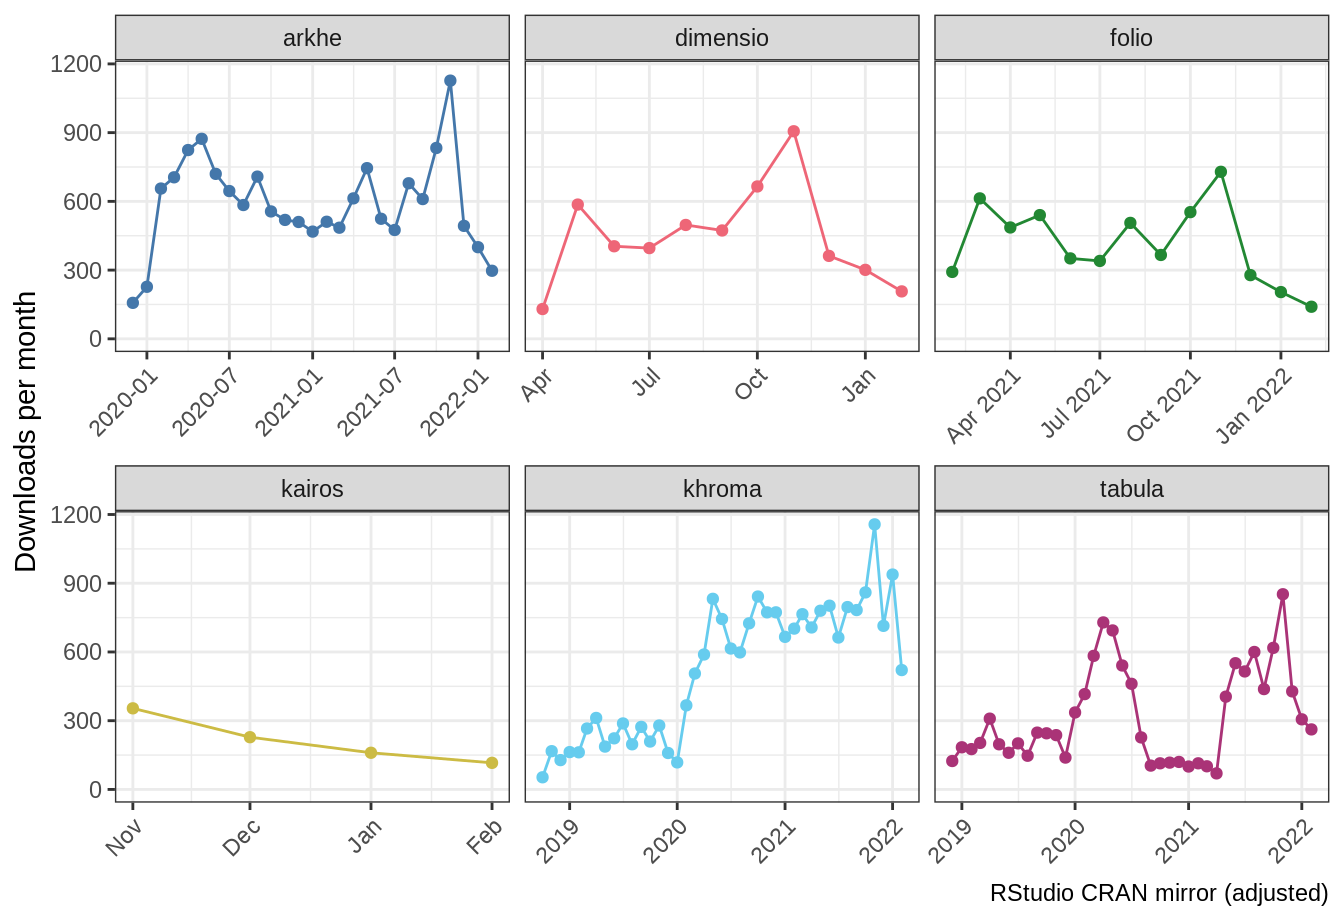
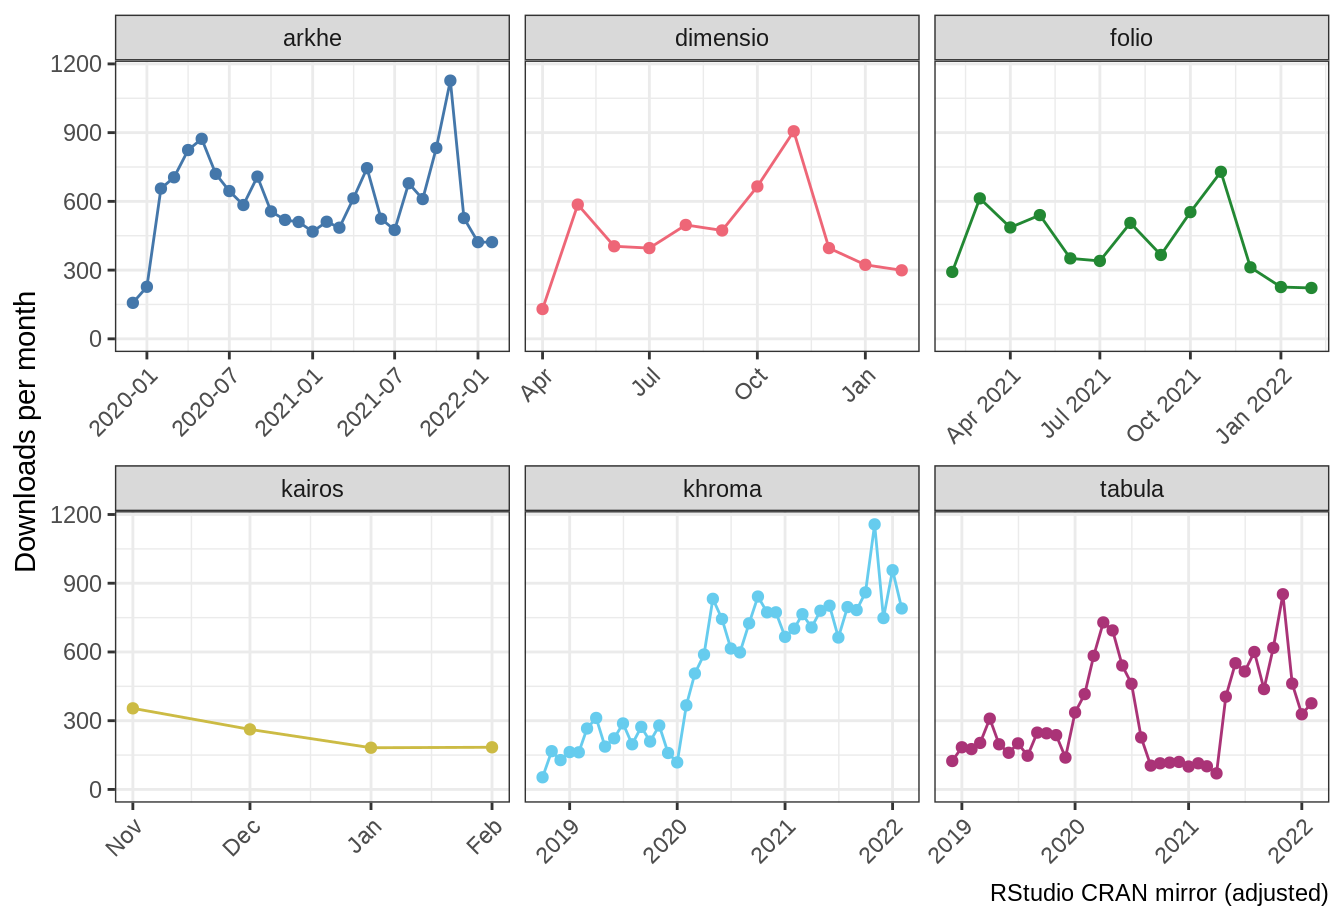
Deploying to gh-pages from @ tesselle/packages@a13dbf9ce6ea0f2f50f26c72cbb48c3828353bf6 🚀

diff --git a/index.html b/index.html
@@ -2659,7 +2659,7 @@ window.FlexDashboardComponents.push({
 <h2>tesselle</h2>
 <p><a href="https://www.tesselle.org/"><strong>tesselle</strong></a> is a collection of <a href="https://www.r-project.org/">R</a> packages for research and teaching in archaeology. These packages focus on quantitative analysis methods developed for archaeology.</p>
 <p>The <strong>tesselle</strong> packages are designed to work seamlessly together and to complement general-purpose and other specialized statistical packages.</p>
-<p>Last update: 2022-02-21.</p>
+<p>Last update: 2022-02-28.</p>
 </div>
 <div id="column" class="section level2 tabset">
 <h2>Column</h2>
@@ -2778,9 +2778,9 @@ window.FlexDashboardComponents.push({
 </tr>
 <tr class="even">
 <td align="left"><a href="https://cloud.r-project.org/web/checks/check_results_kairos.html" title="CRAN check results for kairos">kairos</a></td>
-<td align="right">13</td>
+<td align="right">7</td>
 <td align="right">0</td>
-<td align="right">0</td>
+<td align="right">6</td>
 <td align="right">0</td>
 <td align="right">0</td>
 </tr>
@@ -2842,21 +2842,21 @@ CRAN downloads per month.
 </div>
 <p><span class="value-output" data-icon="fab fa-r-project" data-color="bg-info" data-href="https://cloud.r-project.org/web/checks/check_results_folio.html">folio</span></p>
 </div>
-<div id="cran-check-ok-2" class="section level3">
-<h3>CRAN check: OK</h3>
+<div id="cran-check-warning" class="section level3">
+<h3>CRAN check: warning</h3>
 <div class="knitr-options" data-fig-width="576" data-fig-height="460">
 
 </div>
-<p><span class="value-output" data-icon="fab fa-r-project" data-color="bg-success" data-href="https://cloud.r-project.org/web/checks/check_results_kairos.html">kairos</span></p>
+<p><span class="value-output" data-icon="fab fa-r-project" data-color="bg-warning" data-href="https://cloud.r-project.org/web/checks/check_results_kairos.html">kairos</span></p>
 </div>
-<div id="cran-check-ok-3" class="section level3">
+<div id="cran-check-ok-2" class="section level3">
 <h3>CRAN check: OK</h3>
 <div class="knitr-options" data-fig-width="576" data-fig-height="460">
 
 </div>
 <p><span class="value-output" data-icon="fab fa-r-project" data-color="bg-success" data-href="https://cloud.r-project.org/web/checks/check_results_khroma.html">khroma</span></p>
 </div>
-<div id="cran-check-ok-4" class="section level3">
+<div id="cran-check-ok-3" class="section level3">
 <h3>CRAN check: OK</h3>
 <div class="knitr-options" data-fig-width="576" data-fig-height="460">
 
